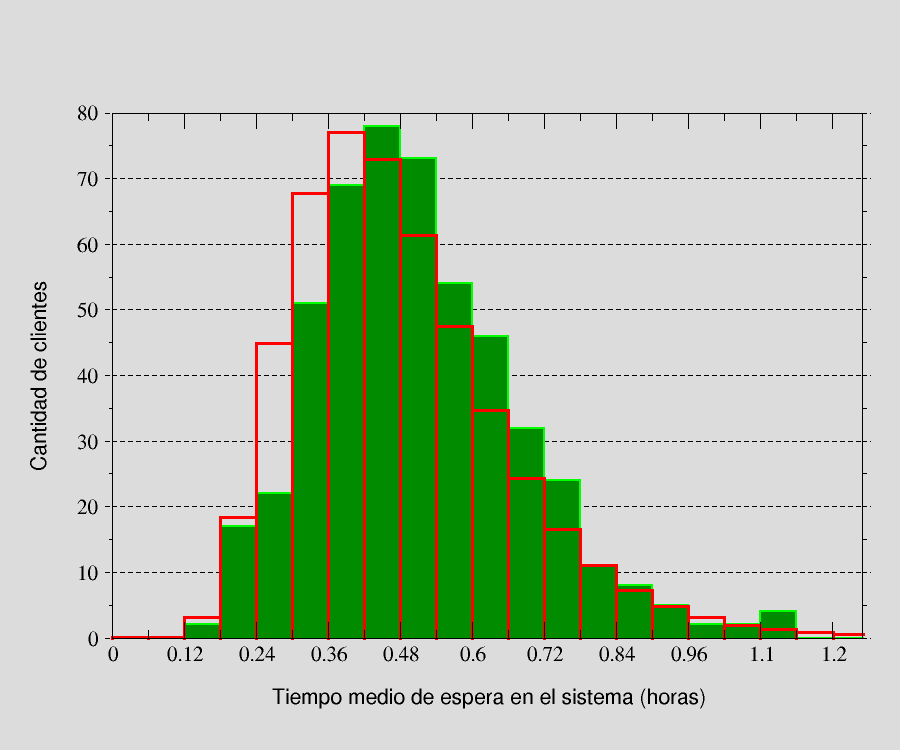
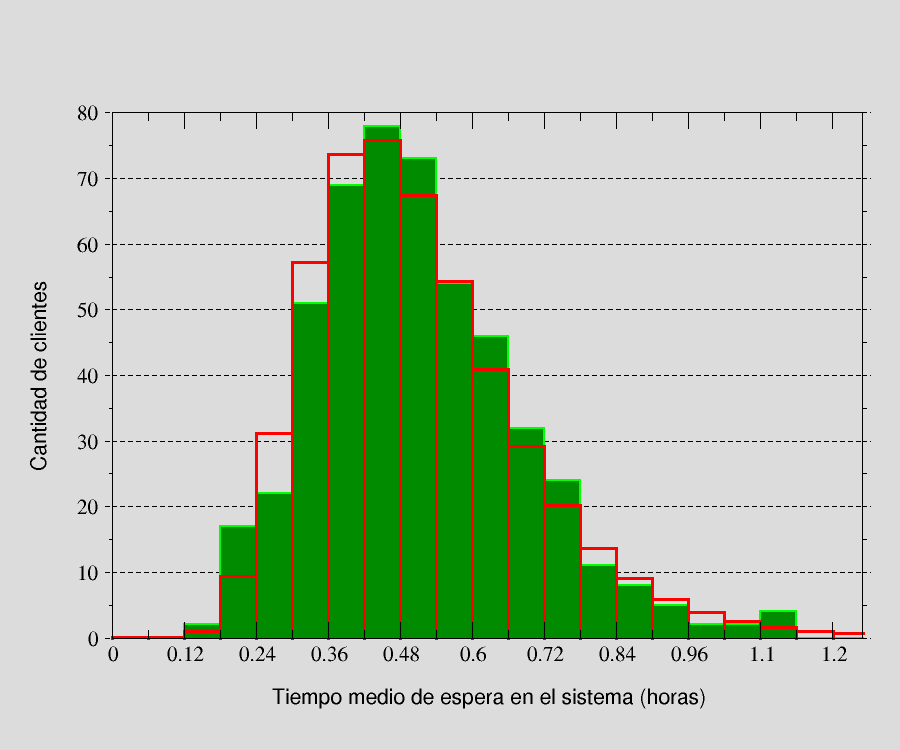
Rehaciendo los histogramas (por tercera vez) esta vez usando los valores calculados por nuestro programa para los intervalos de las distribuciones teoricas

diff --git a/trunk/modelos/PE2/results/calc_pvalues.c b/trunk/modelos/PE2/results/calc_pvalues.c
@@ -96,18 +96,32 @@ static double F_LogNormal (double x)
 
 
 
-/* Guarda las probabilidades listadas en 'prob', que son 'n' en total,
+/* Guarda los valores probabiliisticos listados en 'prob', que son 'n' en total,
  * dentro de un archivo de nombre 'fname'
+ * Aniade el mensaje 'msg' al comienzo del archivo (sii 'msg' != NULL)
  *
  * PRE: fname != NULL
  *	prob  != NULL && #(prob) == n
  */
-static void save_interval_probabilities (const char* fname, double *prob, n)
+static void save_probabilities (const char* fname, double *prob,
+				unsigned int n, const char *msg)
 {
 	FILE *f = NULL;
+	unsigned int i = 0;
 	
 	assert (fname != NULL);
 	assert (prob  != NULL);
+	
+	f = fopen (fname,"w");
+	assert (f != NULL);
+	
+	if (msg != NULL)
+		fprintf (f, "%s\n", msg);
+	
+	for (i=0 ; i<n ; i++)
+		fprintf (f, "%u) %.8f\n", i, (double) SAMPLE_SIZE * prob[i]);
+	
+	fclose (f);
 	
 	return;
 }
@@ -119,7 +133,6 @@ static void save_interval_probabilities (const char* fname, double *prob, n)
 /** ### MAIN */
 int main (void)
 {
-	FILE *fprob = NULL;
 	double p_value = 0.0;
 	
 	double I[NI];		/* Intervalos */
@@ -164,17 +177,25 @@ int main (void)
 	act4_gen_pi (pGamma, I, NI, F_Gamma);
 	Tg = ji_cuadrado (sample, SAMPLE_SIZE, I, NI, pGamma);
 	printf ("\tGamma T = %.8f\n", Tg),
-	save_interval_probabilities (pGamma, NI);
+	save_probabilities ("Gamma_interval_probs.dat", pGamma, NI,
+			    "Probabilities for defined intervals according to "
+			    "the Gamma distribution\n");
 	
 	/* Prob. de caer en cada intervalo según Normal(μ,σ) */
 	act4_gen_pi (pNormal, I, NI, F_Normal);
 	Tn = ji_cuadrado (sample, SAMPLE_SIZE, I, NI, pNormal);
 	printf ("\tNorm T = %.8f\n", Tn);
-			
+	save_probabilities ("Normal_interval_probs.dat", pNormal, NI,
+			    "Probabilities for defined intervals according to "
+			    "the Normal distribution\n");
+	
 	/* Prob. de caer en cada intervalo según LogNormal(μ,σ) */
 	act4_gen_pi (pLogNormal, I, NI, F_LogNormal);
 	Tln = ji_cuadrado (sample, SAMPLE_SIZE, I, NI, pLogNormal);
 	printf ("\tLogNorm T = %.8f\n", Tln);
+	save_probabilities ("LogNormal_interval_probs.dat", pLogNormal, NI,
+			    "Probabilities for defined intervals according to "
+			    "the LogNormal distribution\n");
 	
 	
 	printf ("\nValores-p según Ji-2 (con aproximación)\n");
